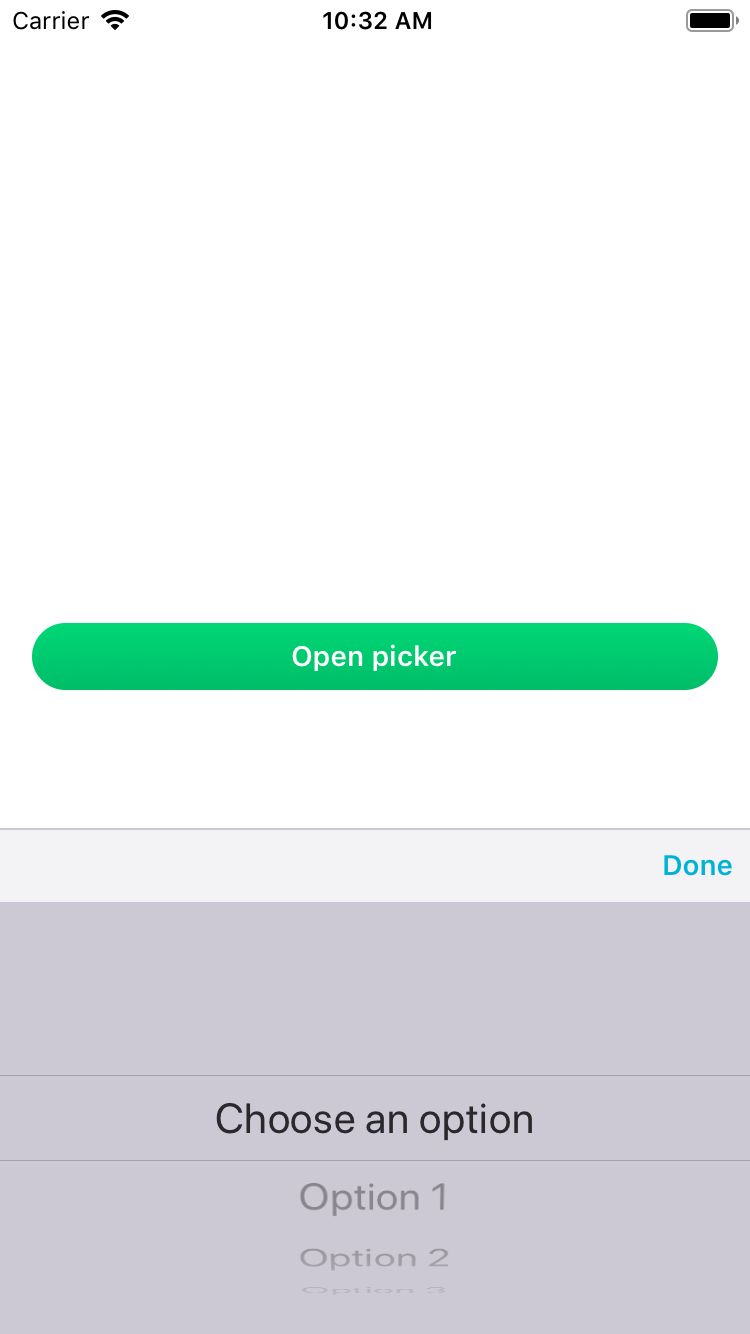
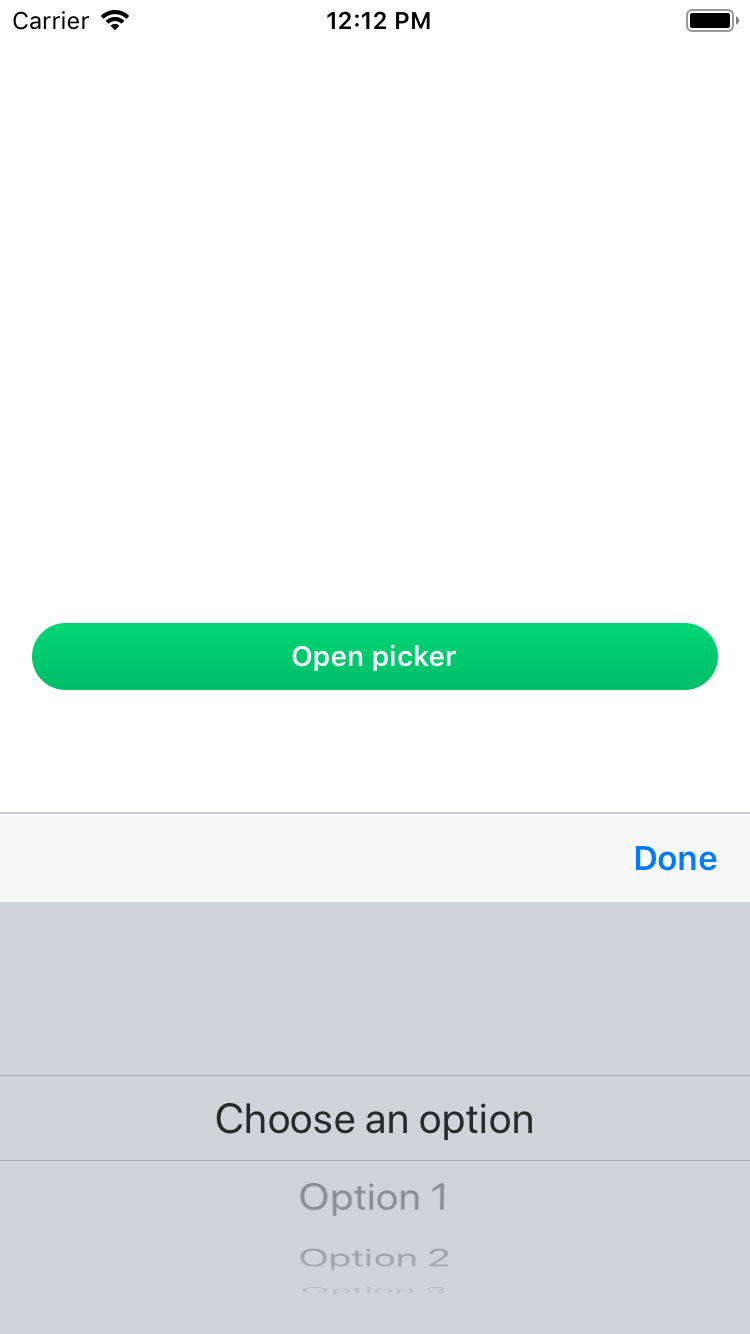
[BPK-2159] Make iOS picker accessory view match default iOS styles

Changed region(s): [[0.828, 0.6147, 0.9813, 0.6762], [0.4293, 0.0, 0.5827, 0.0307]]

diff --git a/packages/react-native-bpk-component-picker/src/BpkPickerMenu.ios.js b/packages/react-native-bpk-component-picker/src/BpkPickerMenu.ios.js
@@ -28,17 +28,19 @@ import {
 } from 'react-native';
 import PropTypes from 'prop-types';
 import BpkButtonLink from 'react-native-bpk-component-button-link';
-import {
-  colorGray50,
-  colorGray200,
-  spacingSm,
-  spacingMd,
-} from 'bpk-tokens/tokens/base.react.native';
+import { colorGray200, spacingBase } from 'bpk-tokens/tokens/base.react.native';
 import {
   PICKER_MENU_PROP_TYPE,
   PICKER_MENU_DEFAULT_PROPS,
   type PickerMenuProps,
 } from './common-types';
+
+// Set to match built-in input accessory views in iOS.
+const IOS_INPUT_ACCESSORY_VIEW_BACKGROUND_COLOR = '#f9f9f9';
+const IOS_INPUT_ACCESSORY_VIEW_HEIGHT = 45;
+const IOS_INPUT_ACCESSORY_VIEW_DONE_LABEL_COLOR = '#007aff';
+const IOS_INPUT_ACCESSORY_VIEW_DONE_LABEL_FONT_SIZE = 17;
+const IOS_PICKER_MODAL_BACKGROUND_COLOR = '#d0d4da';
 
 const styles = StyleSheet.create({
   dismissOverlay: {
@@ -47,19 +49,24 @@ const styles = StyleSheet.create({
   modal: {
     flexDirection: 'column',
     width: '100%',
-    backgroundColor: colorGray200,
+    backgroundColor: IOS_PICKER_MODAL_BACKGROUND_COLOR,
     position: 'absolute',
     bottom: 0,
   },
   modalHeader: {
     flex: 1,
-    paddingVertical: spacingSm * 0.5,
-    paddingHorizontal: spacingMd,
+    paddingHorizontal: spacingBase,
     flexDirection: 'row',
-    backgroundColor: colorGray50,
+    backgroundColor: IOS_INPUT_ACCESSORY_VIEW_BACKGROUND_COLOR,
     borderTopWidth: 1, // eslint-disable-line backpack/use-tokens
     borderColor: colorGray200,
     justifyContent: 'flex-end',
+    height: IOS_INPUT_ACCESSORY_VIEW_HEIGHT,
+    alignItems: 'center',
+  },
+  doneLabel: {
+    color: IOS_INPUT_ACCESSORY_VIEW_DONE_LABEL_COLOR,
+    fontSize: IOS_INPUT_ACCESSORY_VIEW_DONE_LABEL_FONT_SIZE,
   },
 });
 
@@ -97,6 +104,7 @@ const BpkPickerMenu = (props: Props) => {
             onPress={onClose}
             textProps={{
               allowFontScaling: false,
+              style: styles.doneLabel,
             }}
           />
         </View>

diff --git a/UNRELEASED.md b/UNRELEASED.md
@@ -1,1 +1,6 @@
 # Unreleased
+
+**Fixed**
+
+- react-native-bpk-component-picker:
+  - (iOS only) The accessory view above the picker now uses the default iOS styles to match other inputs
